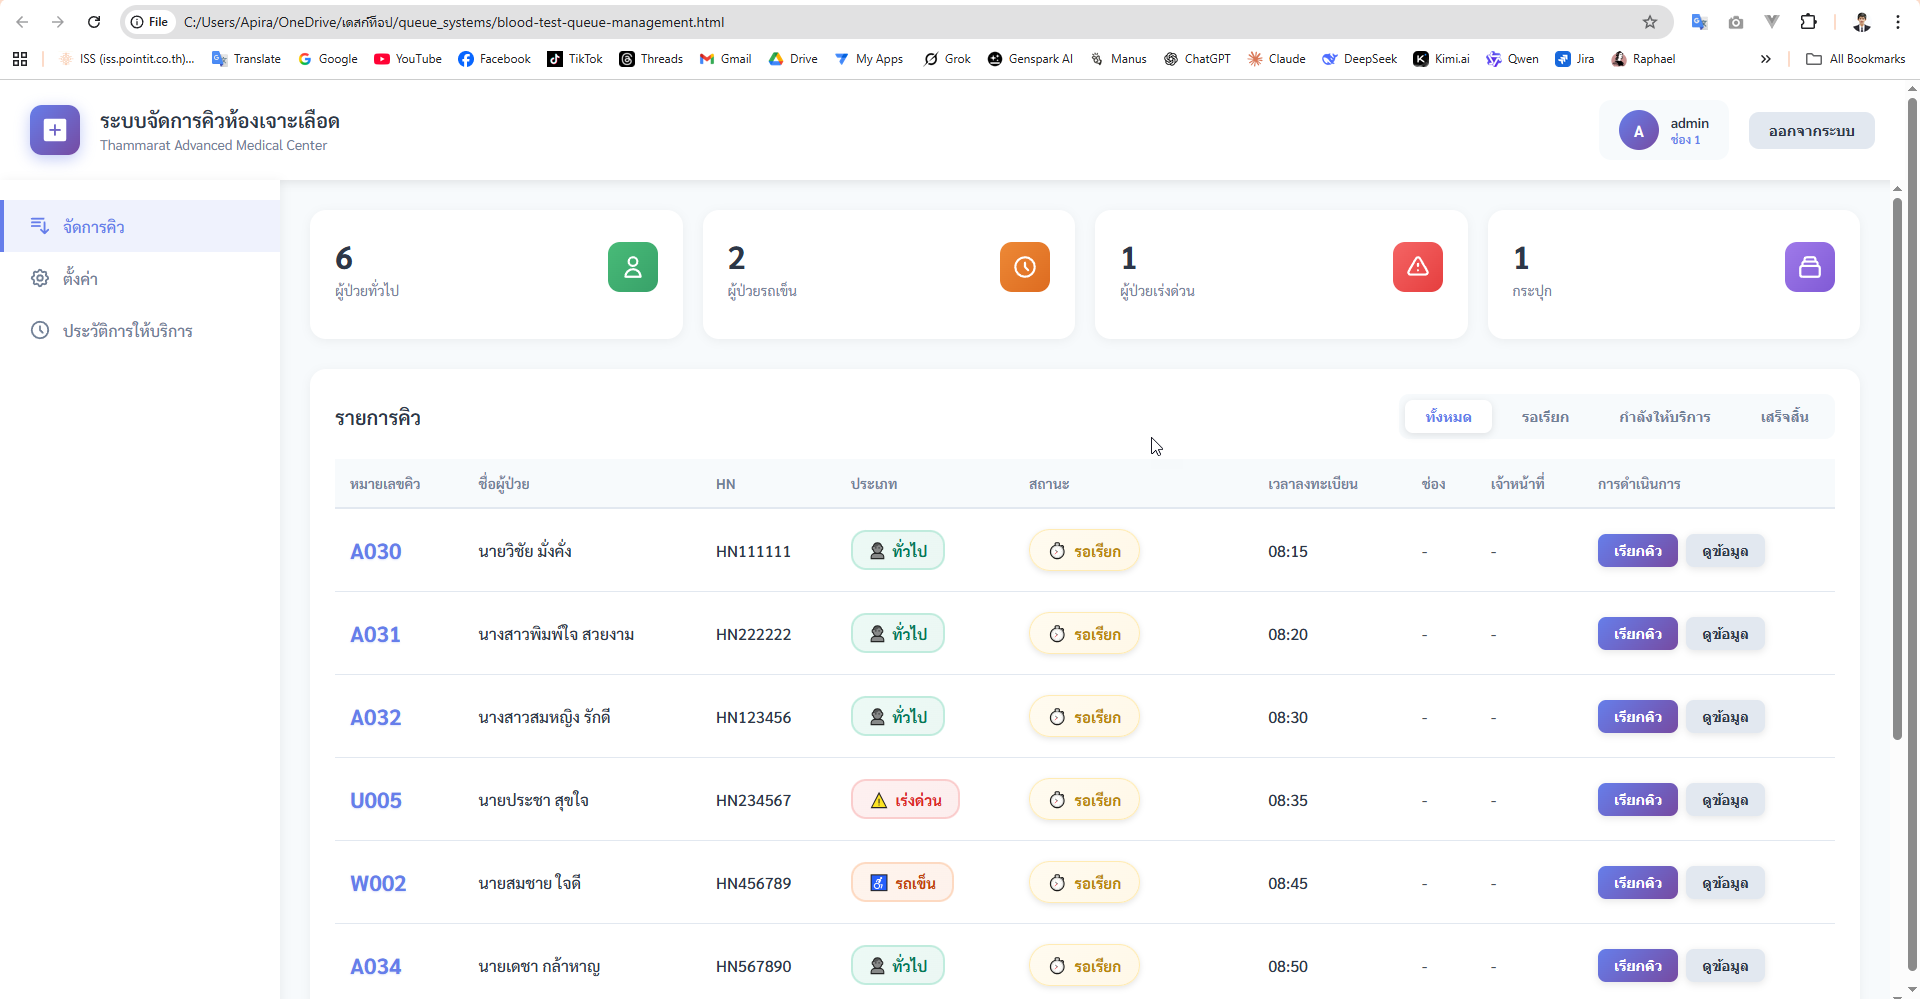
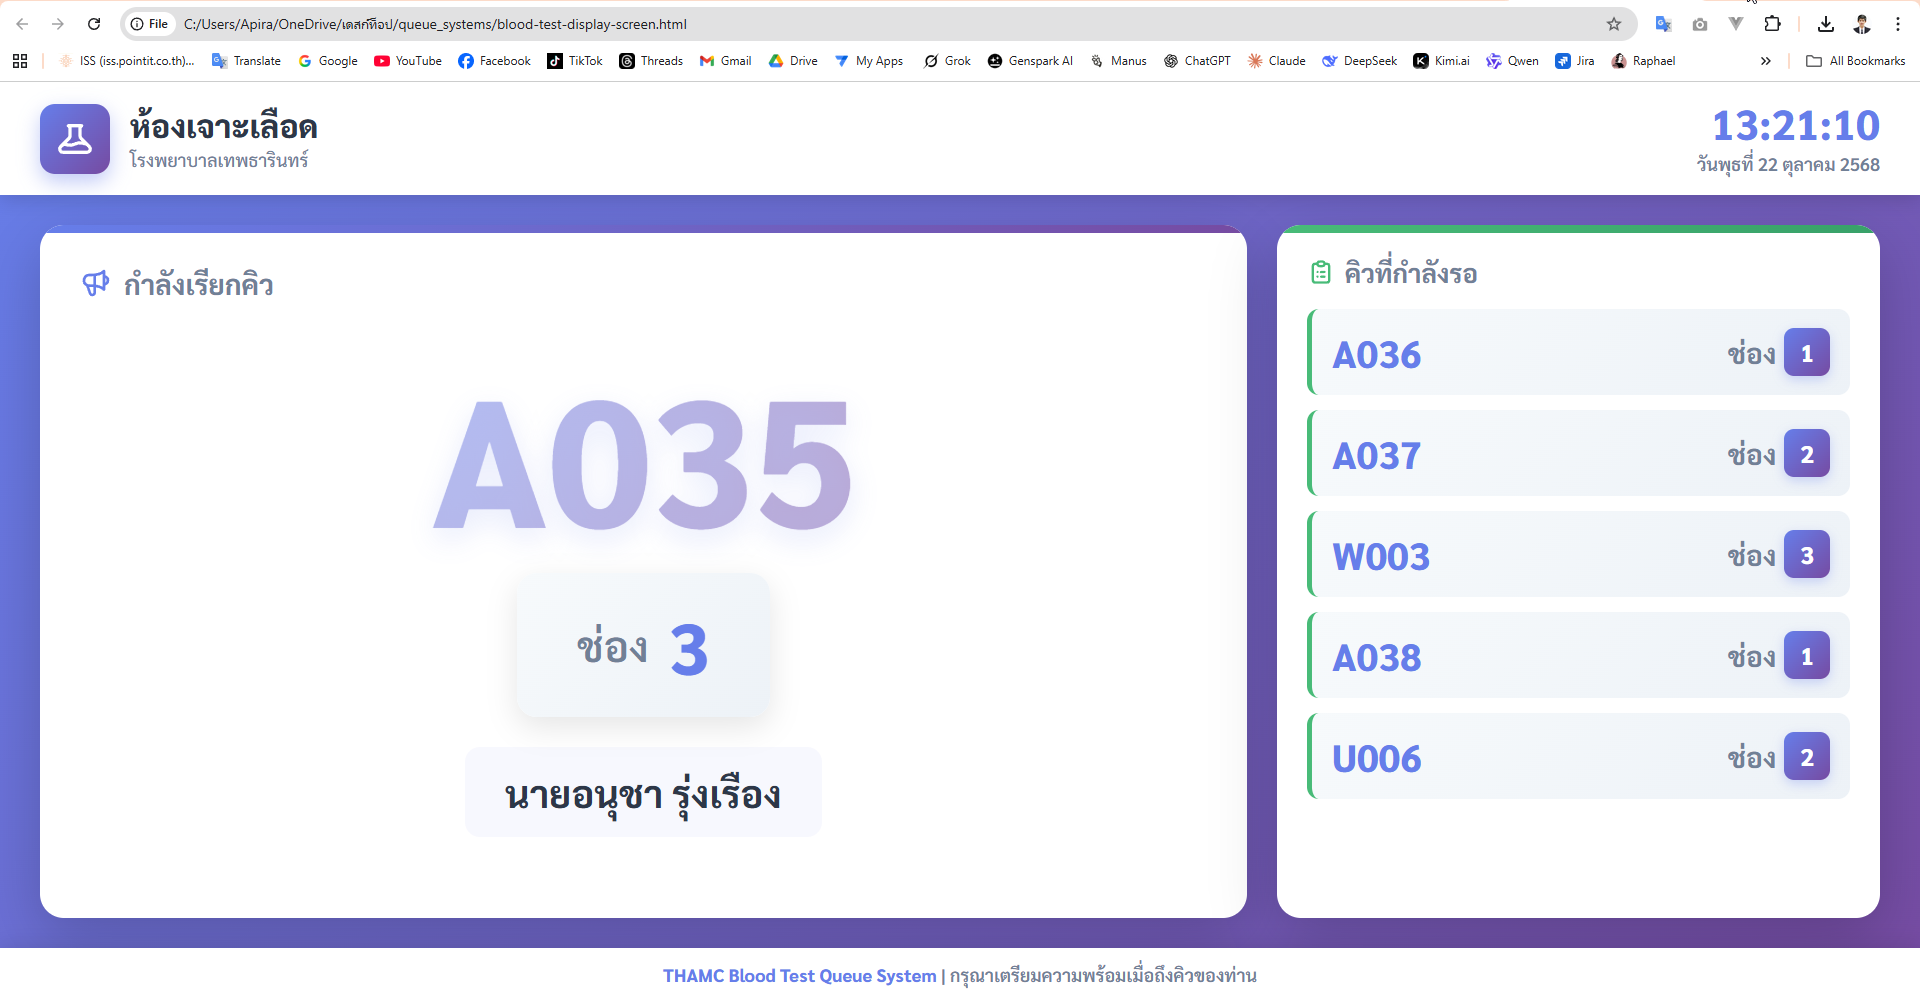
Add

diff --git a/blood-test-display-screen.html b/blood-test-display-screen.html
@@ -274,7 +274,7 @@
         .waiting-item {
             display: flex;
             align-items: center;
-            justify-content: space-between;
+            justify-content: center;
             padding: 18px 20px;
             background: linear-gradient(135deg, #f7fafc 0%, #edf2f7 100%);
             border-radius: 12px;
@@ -306,24 +306,6 @@
             min-width: 100px;
         }
 
-        .waiting-counter {
-            font-size: 28px;
-            font-weight: 700;
-            color: #718096;
-            display: flex;
-            align-items: center;
-            gap: 8px;
-        }
-
-        .counter-badge {
-            background: linear-gradient(135deg, #667eea 0%, #764ba2 100%);
-            color: white;
-            padding: 8px 16px;
-            border-radius: 10px;
-            font-size: 24px;
-            font-weight: 800;
-            box-shadow: 0 4px 12px rgba(102, 126, 234, 0.3);
-        }
 
         /* Footer */
         .footer {
@@ -471,11 +453,11 @@
         };
 
         let waitingQueues = [
-            { queueNumber: 'A036', counterNumber: 1 },
-            { queueNumber: 'A037', counterNumber: 2 },
-            { queueNumber: 'W003', counterNumber: 3 },
-            { queueNumber: 'A038', counterNumber: 1 },
-            { queueNumber: 'U006', counterNumber: 2 }
+            { queueNumber: 'A036' },
+            { queueNumber: 'A037' },
+            { queueNumber: 'W003' },
+            { queueNumber: 'A038' },
+            { queueNumber: 'U006' }
         ];
 
         // Render current queue
@@ -511,9 +493,6 @@
                 listDiv.innerHTML = waitingQueues.map(queue => `
                     <div class="waiting-item">
                         <div class="waiting-queue-num">${queue.queueNumber}</div>
-                        <div class="waiting-counter">
-                            ช่อง <span class="counter-badge">${queue.counterNumber}</span>
-                        </div>
                     </div>
                 `).join('');
             } else {
